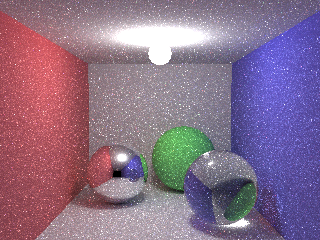
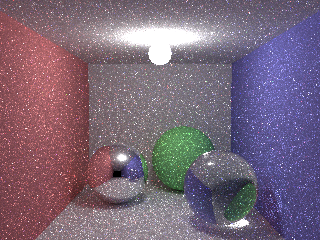
wip sppm

diff --git a/src/stochastic_ppm.h b/src/stochastic_ppm.h
@@ -95,6 +95,7 @@ namespace photonmap
             }
             struct ProgressiveIntersection
             {
+                Color emission;
                 // SHARED
                 Color accumulated_flux;
                 int index;
@@ -118,9 +119,6 @@ namespace photonmap
 
             struct SPPMPixel
             {
-                // UNUSED
-                Color emission;
-
                 // SHARED
                 Color accumulated_flux;
                 int index;
@@ -131,13 +129,12 @@ namespace photonmap
                 Vec position;
                 Color weight;
                 SPPMPixel(Intersection intersection_, const Color& weight_, double photon_radius_2_, int photon_count_,
-                          int index_, const Color& emission_)
+                          int index_)
                     : intersection(intersection_),
                       position(intersection_.hitpoint.position),
                       weight(weight_),
                       photon_radius_2(photon_radius_2_),
-                      index(index_),
-                      emission(emission_)
+                      index(index_)
                 {
                 }
             };
@@ -205,13 +202,15 @@ namespace photonmap
                     const Vec orienting_normal =
                         dot(hitpoint.normal, ray.dir) < 0.0
                             ? hitpoint.normal
-                            : (-1.0 * hitpoint.normal);  // 交差位置の法線（物体からのレイの入出を考慮）
+                            : (-1.0 * hitpoint.normal);
+
+                    // 交差位置の法線（物体からのレイの入出を考慮）
                     // 色の反射率最大のものを得る。ロシアンルーレットで使う。
                     // ロシアンルーレットの閾値は任意だが色の反射率等を使うとより良い。
 
                     if (direct)
                     {
-                        ld_container[index] = ld_container[index] + multiply(weight, now_object.emission);
+//                        ld_container[index] = ld_container[index] + multiply(weight, now_object.emission);
                     }
 
                     direct = now_object.reflection_type != REFLECTION_TYPE_DIFFUSE;
@@ -221,7 +220,7 @@ namespace photonmap
                         // 完全拡散面
                         case REFLECTION_TYPE_DIFFUSE:
                         {
-                            auto est = next_event_est(intersection, spheres[LightID], orienting_normal, *rnd);
+                            auto est = edupt::next_event_est(intersection, spheres[LightID], orienting_normal, *rnd);
 
                             ld_container[index] = ld_container[index] + multiply(weight, est);
                             auto p_it = imageidx_pointidx[index];
@@ -238,8 +237,8 @@ namespace photonmap
                             if (p_it < 0)
                             {
                                 imageidx_pointidx[index] = 1;
-                                point_map->AddData(
-                                    SPPMPixel(intersection, weight, initial_radius_2, 0, index));
+                                point_map->AddData(SPPMPixel(intersection, weight, initial_radius_2, 0, index));
+                                break;
                             }
                             else  // Found Point
                             {
@@ -254,7 +253,6 @@ namespace photonmap
                                         // ld_container[index] = ld_container[index] +
                                         //                         now_object.emission * weight /
                                         //                         russian_roulette_probability;
-
                                         break;
                                     }
                                 }
@@ -842,11 +840,13 @@ namespace photonmap
             //             }
             //             // point_map->AddData(ProgressiveIntersection(intersection, weight /
             //             // russian_roulette_probability,
-            //             //                                            initial_radius_2, 0, index, now_object.emission));
+            //             //                                            initial_radius_2, 0, index,
+            //             now_object.emission));
 
             //             ld_container[index] =
             //                 ld_container[index] +
-            //                 weight * edupt::next_event_est(intersection, spheres[LightID], orienting_normal, sampler01);
+            //                 weight * edupt::next_event_est(intersection, spheres[LightID], orienting_normal,
+            //                 sampler01);
 
             //             auto p_it = imageidx_pointidx[index];
 
@@ -886,7 +886,8 @@ namespace photonmap
             //         {
             //             // 完全鏡面なのでレイの反射方向は決定的。
             //             // ロシアンルーレットの確率で除算するのは上と同じ。
-            //             create_point(Ray(hitpoint.position, reflection(ray.dir, hitpoint.normal)), sampler01, depth + 1,
+            //             create_point(Ray(hitpoint.position, reflection(ray.dir, hitpoint.normal)), sampler01, depth +
+            //             1,
             //                          weight / russian_roulette_probability, point_map, index, true);
             //             return;
             //         }
@@ -897,7 +898,8 @@ namespace photonmap
             //         {
             //             const Ray reflection_ray = Ray(hitpoint.position, reflection(ray.dir, hitpoint.normal));
             //             const bool into =
-            //                 dot(hitpoint.normal, orienting_normal) > 0.0;  // レイがオブジェクトから出るのか、入るのか
+            //                 dot(hitpoint.normal, orienting_normal) > 0.0;  //
+            //                 レイがオブジェクトから出るのか、入るのか
 
             //             // Snellの法則
             //             const double nc = 1.0;   // 真空の屈折率
@@ -922,13 +924,15 @@ namespace photonmap
             //             const double R0 = (a * a) / (b * b);
 
             //             const double c = 1.0 - (into ? -ddn : dot(refraction_ray.dir, hitpoint.normal));
-            //             // 反射方向の光が反射してray.dirの方向に運ぶ割合。同時に屈折方向の光が反射する方向に運ぶ割合。
+            //             //
+            //             反射方向の光が反射してray.dirの方向に運ぶ割合。同時に屈折方向の光が反射する方向に運ぶ割合。
             //             const double Re = R0 + (1.0 - R0) * std::pow(c, 5.0);
             //             // レイの運ぶ放射輝度は屈折率の異なる物体間を移動するとき、屈折率の比の二乗の分だけ変化する。
             //             const double nnt2 = std::pow(into ? nc / nt : nt / nc, 2.0);
             //             const double Tr = (1.0 - Re) * nnt2;  // 屈折方向の光が屈折してray.dirの方向に運ぶ割合
 
-            //             // 一定以上レイを追跡したら屈折と反射のどちらか一方を追跡する。（さもないと指数的にレイが増える）
+            //             //
+            //             一定以上レイを追跡したら屈折と反射のどちらか一方を追跡する。（さもないと指数的にレイが増える）
             //             // ロシアンルーレットで決定する。
             //             const double probability = 0.25 + 0.5 * Re;
 
@@ -937,15 +941,15 @@ namespace photonmap
             //             {  // 反射
 
             //                 create_point(reflection_ray, sampler01, depth + 1,
-            //                              weight * Re / (probability * russian_roulette_probability), point_map, index,
-            //                              true);
+            //                              weight * Re / (probability * russian_roulette_probability), point_map,
+            //                              index, true);
             //             }
             //             else
             //             {  // 屈折
 
             //                 create_point(refraction_ray, sampler01, depth + 1,
-            //                              weight * Tr / ((1.0 - probability) * russian_roulette_probability), point_map,
-            //                              index, false);
+            //                              weight * Tr / ((1.0 - probability) * russian_roulette_probability),
+            //                              point_map, index, false);
             //             }
             //             return;
 
@@ -1145,26 +1149,27 @@ namespace photonmap
                     {
                         image[p_it] = ld_container[p_it] / ((i + 1));
 
-                        //     image[i] = Color();
                     }
                     const int image_index_sample = 49196;
 
                     std::cout << image_index_sample << std::endl;
 
-                    for (auto node : point_map.GetData())
-                    {
-                        // image[node.index] =
-                        //     node.emission + node.weight * node.accumulated_flux *
-                        //                         (1.0 / (M_PI * node.photon_radius_2 * ((i + 1) * photon_num)));
-                        image[node.index] =
-                            image[node.index] + multiply(node.weight, node.accumulated_flux) *
-                                                    (1.0 / (M_PI * node.photon_radius_2 * ((i + 1) * photon_num)));
-                        if (node.index == image_index_sample)
-                        {
-                            std::cout << image[node.index] << std::endl;
-                        }
-                    }
+                    // for (auto node : point_map.GetData())
+                    // {
+                    //     // image[node.index] =
+                    //     //     node.emission + node.weight * node.accumulated_flux *
+                    //     //                         (1.0 / (M_PI * node.photon_radius_2 * ((i + 1) * photon_num)));
+                    //     image[node.index] =
+                    //         image[node.index] + multiply(node.weight, node.accumulated_flux) *
+                    //                                 (1.0 / (M_PI * node.photon_radius_2 * ((i + 1) * photon_num)));
+                    //     if (node.index == image_index_sample)
+                    //     {
+                    //         std::cout << image[node.index] << std::endl;
+                    //     }
+                    // }
 
+
+                    std::cout << image[image_index_sample] << std::endl;
                     //                    image[image_index_sample] = Color(1, 0, 0);
 
                     save_ppm_file(filename + "_" + std::to_string(i) + ".ppm", image, width, height);

diff --git a/src/radiance.h b/src/radiance.h
@@ -49,22 +49,22 @@ namespace edupt
 
         auto light_normal = normalize(light_pos - light.position);
 
-        auto dot0 = std::abs(dot(orienting_normal, light_dir));
-        auto dot1 = std::abs(dot(light_normal, -1 * light_dir));
-        auto rad2 = light.radius * light.radius;
+        auto dot0 = dot(orienting_normal, light_dir);
+        auto dot1 = dot(light_normal, light_dir);
+        auto radius2 = light.radius * light.radius;
 
         Intersection shadow_isect;
         Ray shadow_ray(isect.hitpoint.position, light_dir);
         auto hit = intersect_scene(shadow_ray, &shadow_isect);
-        auto hit_light = hit && (shadow_isect.object_id == LightID);
+        auto hit_light = hit && (shadow_isect.object_id == LightID) && dot1 < 0 && dot0 > 0;
         if (hit_light)
         {
-            auto G = (dot0 * dot1) / light_dist2;
-            auto pdf = 1.0 / (4.0 * M_PI * rad2);
-
-            return multiply(spheres[isect.object_id].color,
-                            multiply(light.emission, (spheres[isect.object_id].color / M_PI))) *
-                   G / pdf;
+            auto G = (std::abs(dot0) * std::abs(dot1)) / light_dist2;
+            auto pdf = 1.0 / (4.0 * M_PI * radius2);
+            auto fs = spheres[isect.object_id].color / M_PI;
+            // Ij←Ij+α×Le(xl→x)fs(x,ω⃗ l,ω⃗ o)G(xl↔x)/pA(xl)
+            // Le より先
+            return multiply(light.emission, fs) * G / pdf;
         }
         return Color();
     }
@@ -267,10 +267,6 @@ namespace edupt
                 dot(hitpoint.normal, ray.dir) < 0.0
                     ? hitpoint.normal
                     : (-1.0 * hitpoint.normal);  // 交差位置の法線（物体からのレイの入出を考慮）
-            // 色の反射率最大のものを得る。ロシアンルーレットで使う。
-            // ロシアンルーレットの閾値は任意だが色の反射率等を使うとより良い。
-            double russian_roulette_probability =
-                std::max(now_object.color.x, std::max(now_object.color.y, now_object.color.z));
 
             if (direct)
             {
@@ -278,18 +274,6 @@ namespace edupt
             }
 
             direct = now_object.reflection_type != REFLECTION_TYPE_DIFFUSE;
-
-            // 反射回数が一定以上になったらロシアンルーレットの確率を急上昇させる。（スタックオーバーフロー対策）
-            if (depth > MaxDepth) russian_roulette_probability *= std::pow(0.5, depth - MaxDepth);
-
-            // ロシアンルーレットを実行し追跡を打ち切るかどうかを判断する。
-            // ただしDepth回の追跡は保障する。
-            if (depth > kDepth)
-            {
-                if (rnd->sample() >= russian_roulette_probability) break;
-            }
-            else
-                russian_roulette_probability = 1.0;  // ロシアンルーレット実行しなかった
 
             switch (now_object.reflection_type)
             {
@@ -316,7 +300,9 @@ namespace edupt
                     Vec dir = normalize((u * cos(r1) * r2s + v * sin(r1) * r2s + w * sqrt(1.0 - r2)));
 
                     ray = Ray(hitpoint.position, dir);
-                    weight = multiply(weight, now_object.color / russian_roulette_probability);
+                    weight = multiply(weight, now_object.color);
+
+                    goto hoge;
                 }
                 break;
 
@@ -324,7 +310,7 @@ namespace edupt
                 case REFLECTION_TYPE_SPECULAR:
                 {
                     ray = Ray(hitpoint.position, ray.dir - hitpoint.normal * 2.0 * dot(hitpoint.normal, ray.dir));
-                    weight = multiply(weight, now_object.color / russian_roulette_probability);
+                    weight = multiply(weight, now_object.color);
                 }
                 break;
 
@@ -346,7 +332,7 @@ namespace edupt
                     if (cos2t < 0.0)
                     {  // 全反射
                         ray = reflection_ray;
-                        weight = multiply(weight, now_object.color / russian_roulette_probability);
+                        weight = multiply(weight, now_object.color);
                         break;
                     }
 
@@ -377,18 +363,37 @@ namespace edupt
                     if (rnd->sample() < probability)
                     {  // 反射
                         ray = reflection_ray;
-                        weight = multiply(weight, now_object.color * Re / (probability * russian_roulette_probability));
+                        weight = multiply(weight, now_object.color * Re / (probability));
                     }
                     else
                     {
                         ray = refraction_ray;
-                        weight = multiply(weight,
-                                          now_object.color * Tr / ((1.0 - probability) * russian_roulette_probability));
+                        weight = multiply(weight, now_object.color * Tr / ((1.0 - probability)));
                     }
                 }
                 break;
             }
+            // 色の反射率最大のものを得る。ロシアンルーレットで使う。
+            // ロシアンルーレットの閾値は任意だが色の反射率等を使うとより良い。
+            double russian_roulette_probability =
+                std::max(now_object.color.x, std::max(now_object.color.y, now_object.color.z));
+
+            // 反射回数が一定以上になったらロシアンルーレットの確率を急上昇させる。（スタックオーバーフロー対策）
+            if (depth >= MaxDepth) russian_roulette_probability *= std::pow(0.5, depth - MaxDepth);
+
+            // ロシアンルーレットを実行し追跡を打ち切るかどうかを判断する。
+            // ただしDepth回の追跡は保障する。
+            if (depth >= kDepth)
+            {
+                if (rnd->sample() >= russian_roulette_probability) break;
+            }
+            else
+                russian_roulette_probability = 1.0;  // ロシアンルーレット実行しなかった
+
+            weight = weight / russian_roulette_probability;
         }
+
+    hoge:;
 
         return rad;
     }

diff --git a/src/main.cpp b/src/main.cpp
@@ -17,8 +17,8 @@ int main(int argc, char **argv)
     // edupt::render(640, 480, 4, 2);
     constexpr int width = 320;
     constexpr int height = 240;
-    int samples = 100;
-    int supersamples = 4;
+    int samples = 1;
+    int supersamples = 1;
     int photon_num = 50000;
     int gather_photon_radius = 32;
     int gahter_max_photon_num = 64;
@@ -27,7 +27,7 @@ int main(int argc, char **argv)
     int photonmap_num = 10;
     std::stringstream ss;
  //   return edupt::render_dof(width, height, samples, supersamples, 180, 4);
-//    return edupt::render(width, height, samples, supersamples);
+    return edupt::render(width, height, samples, supersamples);
 
     // for (size_t i = 60; i < 200; i = i + 10)
     // {
@@ -70,8 +70,8 @@ int main(int argc, char **argv)
     gather_photon_radius = 5;
     photonmap::progressive::InitialRadius = gather_photon_radius;
 
-    gahter_max_photon_num = 1000000;
-    photon_num = 100;
+    gahter_max_photon_num = 10000;
+    photon_num = 100000;
 
     ss << "image_" << scene_name << "_ppm101_" << width << "_" << height << "_" << samples << "_" << supersamples << "_"
        << photon_num << "_" << gather_photon_radius << "_" << gahter_max_photon_num << "_" << photonmap_num;
